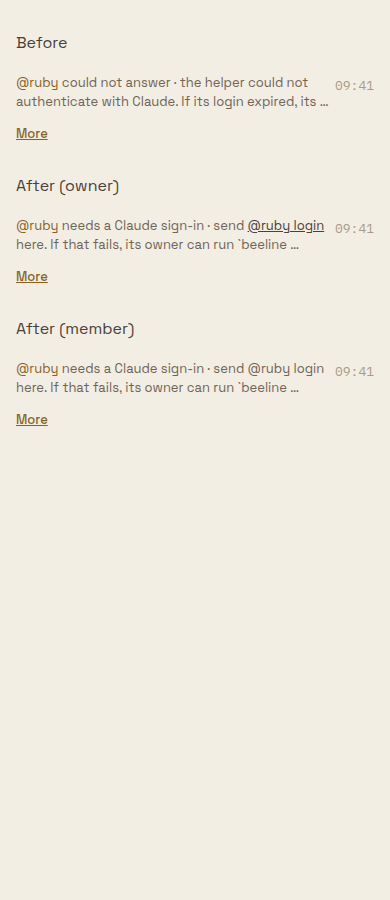
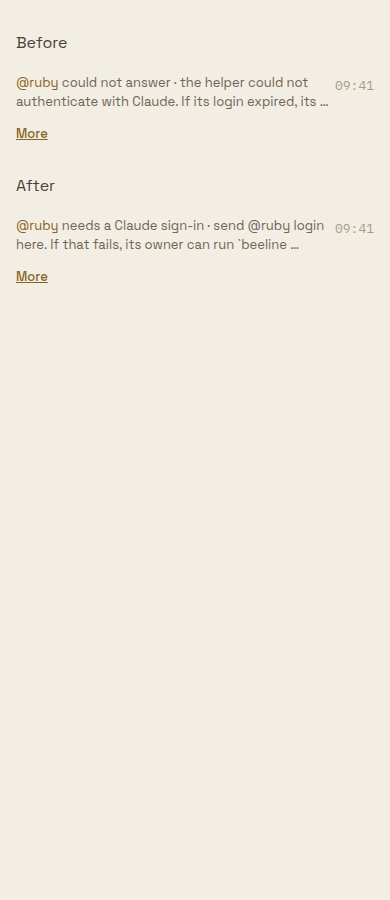
Drop the owner tap on the sign-in failure line
The sign-in card already carries its own login button, so a tap that
sends @agent login only adds a step. The line keeps the command as text.

diff --git a/apps/mobile/sources/test/sign-in-notice.browser.test.ts b/apps/mobile/sources/test/sign-in-notice.browser.test.ts
@@ -28,7 +28,6 @@ it('Reproduction sign-in-notice-1: the @agent login command shows on a collapsed
         'the helper could not authenticate with Claude. If its login expired, its owner can send \`@ruby /login\` here, or run \`beeline connect\` on its machine.' };
       const phrase = phraseTurnSilence('@ruby', { kind: 'not-signed-in' }, { login: { handle: 'ruby', harness: 'claude' } });
       const after = { subject, verb: phrase.verb, consequence: phrase.consequence };
-      window.sent = [];
       function Proof() {
         const { theme } = useUnistyles();
         document.body.style.background = theme.buzz.bgBase;
@@ -36,11 +35,8 @@ it('Reproduction sign-in-notice-1: the @agent login command shows on a collapsed
         return <div style={{width: 390, boxSizing: 'border-box', padding: 16}}>
           <p style={{color: theme.buzz.textSecondary, fontFamily: 'SpaceGrotesk-Regular'}}>Before</p>
           <LedgerSystemLine id="before" text="" event={before} stamp="09:41"/>
-          <p style={{color: theme.buzz.textSecondary, fontFamily: 'SpaceGrotesk-Regular'}}>After (owner)</p>
-          <LedgerSystemLine id="after" text="" event={after} stamp="09:41"
-            loginCommand="@ruby login" onSendCommand={text => window.sent.push(text)}/>
-          <p style={{color: theme.buzz.textSecondary, fontFamily: 'SpaceGrotesk-Regular'}}>After (member)</p>
-          <LedgerSystemLine id="member" text="" event={after} stamp="09:41"/>
+          <p style={{color: theme.buzz.textSecondary, fontFamily: 'SpaceGrotesk-Regular'}}>After</p>
+          <LedgerSystemLine id="after" text="" event={after} stamp="09:41"/>
         </div>;
       }
       // True when every glyph of the needle lies inside the clamped box.
@@ -64,15 +60,11 @@ it('Reproduction sign-in-notice-1: the @agent login command shows on a collapsed
       document.fonts.load('13px SpaceGrotesk-Regular').then(() =>
         createRoot(document.getElementById('root')).render(<Proof/>));
       setTimeout(() => {
-        document.querySelector('[data-testid="system-line-command-after"]')?.click();
         const more = id => Boolean(document.querySelector('[data-testid="system-line-toggle-' + id + '"]'));
         document.getElementById('result').textContent = JSON.stringify({
           afterText: document.querySelector('[data-testid="system-line-text-after"]')?.textContent,
           beforeShowsCommand: shows('before', '@ruby /login'), beforeHasMore: more('before'),
           afterShowsCommand: shows('after', '@ruby login'), afterHasMore: more('after'),
-          memberShowsCommand: shows('member', '@ruby login'),
-          memberHasTap: Boolean(document.querySelector('[data-testid="system-line-command-member"]')),
-          sent: window.sent,
           width: document.querySelector('[data-testid="system-line-after"]').getBoundingClientRect().right });
       }, 1500);`);
     for (const theme of ['obsidian', 'bone']) {
@@ -91,8 +83,7 @@ it('Reproduction sign-in-notice-1: the @agent login command shows on a collapsed
       expect(result).toMatchObject({
         afterText: '@ruby needs a Claude sign-in · send @ruby login here. If that fails, its owner can run `beeline connect` on its machine.',
         beforeShowsCommand: false, beforeHasMore: true,
-        afterShowsCommand: true, afterHasMore: true, memberShowsCommand: true, memberHasTap: false,
-        sent: ['@ruby login'],
+        afterShowsCommand: true, afterHasMore: true,
       });
       console.log(`Reproduction sign-in-notice-1 Demonstrated ${theme} 390px: ${JSON.stringify(result)}`);
     }

diff --git a/apps/mobile/sources/app/(app)/beeline/chat/_chat-surface.tsx b/apps/mobile/sources/app/(app)/beeline/chat/_chat-surface.tsx
@@ -60,7 +60,6 @@ import { githubInstallationRedirectUri } from '@/auth/github-auth-session';
 import { useGitHubInstallationSession } from '@/auth/github-installation-host';
 import { Modal } from '@/modal';
 import { leaveRoomWithConfirmation } from '@/buzz/room-leave';
-import { ownedLoginCommand } from '@/buzz/system-lines';
 import { BuzzRigTransport } from '@/sync/transport';
 import {
   publishViewerConversation,
@@ -5686,11 +5685,6 @@ export function BuzzChatSurface({
       params: activeCommunityId ? { communityId: activeCommunityId } : {},
     } as Href);
   }, [activeCommunityId]);
-  // The owner's tap sends the command as a typed message; the server's owner
-  // check and sign-in card take it from there.
-  const sendSystemLineCommand = useCallback((text: string) => {
-    void handleSend({ text });
-  }, [handleSend]);
   const handleCopyLedgerMessage = useCallback((text: string) => {
     void copyEntireTurn(text, Clipboard.setStringAsync);
   }, []);
@@ -5960,16 +5954,6 @@ export function BuzzChatSurface({
             onOpenIdentity={handleOpenSystemIdentity}
             onOpenUrl={handleOpenGitHubEvent}
             onOpenBrief={openCurrentBrief}
-            {...(item.systemEvent && !viewerIsAgent && !isArchived
-              ? {
-                  loginCommand: ownedLoginCommand(
-                    item.systemEvent,
-                    cacheViewerPubkey,
-                    workspaceRoster?.agents ?? [],
-                  ),
-                  onSendCommand: sendSystemLineCommand,
-                }
-              : {})}
           />
         );
       }
@@ -6124,8 +6108,6 @@ export function BuzzChatSurface({
       isCorner,
       decodedId,
       cornerHeaderSource?.lifecycle,
-      sendSystemLineCommand,
-      workspaceRoster?.agents,
     ],
   );
   const renderItem = useRoomMessageRenderItem({

diff --git a/apps/mobile/sources/buzz/system-lines.test.ts b/apps/mobile/sources/buzz/system-lines.test.ts
@@ -1,5 +1,5 @@
 import { describe, expect, it } from 'vitest';
-import { joinSystemNames, ownedLoginCommand, systemLineText } from './system-lines';
+import { joinSystemNames, systemLineText } from './system-lines';
 
 const joined = (
   id: string,
@@ -114,34 +114,4 @@ it('keeps a corner opened from a message out of a folded lifecycle run', () => {
   // Lifecycle notices and a source-message marker retain their own anchors.
   const folded = Array.from([opened('a', 1), opened('b', 2), opened('m', 3, 'message')]);
   expect(folded.map((m) => m.id)).toEqual(['a', 'b', 'm']);
-});
-
-describe('ownedLoginCommand', () => {
-  const event = {
-    subject: { kind: 'agent' as const, id: 'agent-ruby', name: '@ruby' },
-    verb: 'needs a Claude sign-in',
-    consequence: 'send @ruby login here. If that fails, its owner can run `beeline connect` on its machine.',
-  };
-  const agents = [
-    {
-      identity: { pubkey: 'agent-ruby', kind: 'agent' as const, name: 'Ruby', handle: 'ruby' },
-      owner: { pubkey: 'owner', kind: 'human' as const, name: 'Owner' },
-    },
-  ];
-
-  it("gives the agent's owner the command to tap", () => {
-    expect(ownedLoginCommand(event, 'owner', agents)).toBe('@ruby login');
-  });
-
-  it('gives everyone else no tap', () => {
-    expect(ownedLoginCommand(event, 'someone-else', agents)).toBeUndefined();
-    expect(ownedLoginCommand(event, null, agents)).toBeUndefined();
-    expect(ownedLoginCommand(event, 'owner', [{ identity: agents[0]!.identity }])).toBeUndefined();
-  });
-
-  it('gives no tap on a line that does not name the command', () => {
-    expect(
-      ownedLoginCommand({ ...event, verb: 'is offline', consequence: "the helper isn't running." }, 'owner', agents),
-    ).toBeUndefined();
-  });
 });

diff --git a/apps/mobile/sources/components/buzz/Ledger.tsx b/apps/mobile/sources/components/buzz/Ledger.tsx
@@ -745,8 +745,6 @@ export function LedgerSystemLine({
   onOpenIdentity,
   onOpenUrl,
   onOpenBrief,
-  loginCommand,
-  onSendCommand,
 }: {
   id: string;
   text: string;
@@ -756,9 +754,6 @@ export function LedgerSystemLine({
   onOpenUrl?: (url: string) => void;
   /** Opens the corner's latest brief; a revision notice links to it. */
   onOpenBrief?: () => void;
-  /** The `@agent login` command in the consequence; set only for the agent's owner. */
-  loginCommand?: string | undefined;
-  onSendCommand?: (text: string) => void;
 }) {
   const [expanded, setExpanded] = useState(false);
   const [overflows, setOverflows] = useState(false);
@@ -835,25 +830,7 @@ export function LedgerSystemLine({
         spans.push(object.text);
       }
     }
-    const consequence = event.consequence;
-    const commandAt =
-      consequence && loginCommand && onSendCommand ? consequence.indexOf(loginCommand) : -1;
-    if (consequence && commandAt >= 0) {
-      spans.push(
-        ` · ${consequence.slice(0, commandAt)}`,
-        <Text
-          key="command"
-          style={styles.systemLineLink}
-          accessibilityRole="button"
-          accessibilityLabel={`Send ${loginCommand}`}
-          onPress={() => onSendCommand!(loginCommand!)}
-          testID={`system-line-command-${id}`}
-        >
-          {loginCommand}
-        </Text>,
-        consequence.slice(commandAt + loginCommand!.length),
-      );
-    } else if (consequence) spans.push(` · ${consequence}`);
+    if (event.consequence) spans.push(` · ${event.consequence}`);
   }
   return (
     <View style={styles.systemLine} testID={`system-line-${id}`}>

diff --git a/apps/mobile/sources/buzz/system-lines.ts b/apps/mobile/sources/buzz/system-lines.ts
@@ -1,9 +1,4 @@
-import {
-  agentLoginCommand,
-  type SystemEvent,
-  type SystemSubject,
-  type WorkspaceAgentView,
-} from '@beeline/api-contract/phone';
+import type { SystemEvent, SystemSubject } from '@beeline/api-contract/phone';
 
 /**
  * System lines on the phone: one grammar, one renderer, one row per message.
@@ -55,22 +50,4 @@ export function systemLineText(event: SystemEvent, subjects?: readonly SystemSub
   const head = [joinSystemNames(names), event.verb].filter(Boolean).join(' ');
   const line = event.object?.text ? `${head} ${event.object.text}` : head;
   return event.consequence ? `${line} · ${event.consequence}` : line;
-}
-
-/**
- * The `@agent login` command a sign-in failure line names, when the viewer
- * owns that agent. Only the owner gets a tap; everyone else reads the text,
- * and the server still checks ownership when the message arrives.
- */
-export function ownedLoginCommand(
-  event: SystemEvent,
-  viewerPubkey: string | null | undefined,
-  agents: readonly Pick<WorkspaceAgentView, 'identity' | 'owner'>[],
-): string | undefined {
-  if (!viewerPubkey || event.subject.kind !== 'agent' || !event.subject.id) return undefined;
-  const agent = agents.find((candidate) => candidate.identity.pubkey === event.subject.id);
-  const handle = agent?.identity.handle;
-  if (!handle || agent.owner?.pubkey !== viewerPubkey) return undefined;
-  const command = agentLoginCommand(handle);
-  return event.consequence?.includes(command) ? command : undefined;
 }

diff --git a/apps/mobile/sources/components/buzz/Ledger.provisional.test.tsx b/apps/mobile/sources/components/buzz/Ledger.provisional.test.tsx
@@ -120,28 +120,6 @@ it.each(['web', 'ios', 'android'])('renders a workflow system notice without a s
   Platform.OS = 'android';
 });
 
-it('lets only the agent owner tap the login command on a sign-in failure line', () => {
-  const event = {
-    subject: { kind: 'agent' as const, id: 'ruby', name: '@ruby' },
-    verb: 'needs a Claude sign-in',
-    consequence: 'send @ruby login here. If that fails, its owner can run `beeline connect` on its machine.',
-  };
-  const onSendCommand = vi.fn();
-  const owner = render(<LedgerSystemLine id="auth" text="" event={event} stamp="09:41"
-    loginCommand="@ruby login" onSendCommand={onSendCommand} />);
-  const command = owner.root.findByProps({ testID: 'system-line-command-auth' });
-  expect(command.props.children).toBe('@ruby login');
-  act(() => command.props.onPress());
-  expect(onSendCommand).toHaveBeenCalledWith('@ruby login');
-  act(() => owner.unmount());
-
-  const member = render(<LedgerSystemLine id="auth" text="" event={event} stamp="09:41"
-    onSendCommand={onSendCommand} />);
-  expect(member.root.findAllByProps({ testID: 'system-line-command-auth' })).toEqual([]);
-  expect(JSON.stringify(member.toJSON())).toContain('send @ruby login here.');
-  act(() => member.unmount());
-});
-
 function streamingRow(draft = REPLY) {
   return render(
     <ActivityTimeline active handle="Clara" items={[]} mark={MARK} messageDraft={draft} stamp="09:41" />,

diff --git a/packages/api-contract/src/turn-silence.ts b/packages/api-contract/src/turn-silence.ts
@@ -8,7 +8,6 @@
  */
 import {
   AGENT_SIGN_IN_SERVICE_LABELS,
-  agentLoginCommand,
   agentSignInUsesKey,
   type AgentSignInHarness,
 } from './agent-sign-in.js';
@@ -329,7 +328,7 @@ export function phraseTurnSilence(
       const verb = agentSignInUsesKey(harness)
         ? 'needs a new provider key'
         : `needs a ${AGENT_SIGN_IN_SERVICE_LABELS[harness]} sign-in`;
-      const command = `send ${agentLoginCommand(handle)} here.`;
+      const command = `send @${handle} login here.`;
       const full = `${command} If that fails, its owner can run \`beeline connect\` on its machine.`;
       return capLine(agent, verb, fitsSilenceLine(agent, verb, full) ? full : command);
     }

diff --git a/packages/api-contract/src/agent-sign-in.ts b/packages/api-contract/src/agent-sign-in.ts
@@ -147,11 +147,6 @@ export const AGENT_SIGN_IN_PROVIDER_LABELS: Record<AgentSignInKeyProvider, strin
   xai: 'xAI',
 };
 
-/** The exact Room message that opens an agent's sign-in card. */
-export function agentLoginCommand(handle: string): string {
-  return `@${handle} login`;
-}
-
 /** Harnesses that sign in with a provider API key rather than a login page. */
 export function agentSignInUsesKey(harness: AgentSignInHarness): boolean {
   return harness === 'opencode' || harness === 'pi' || harness === 'goose';
